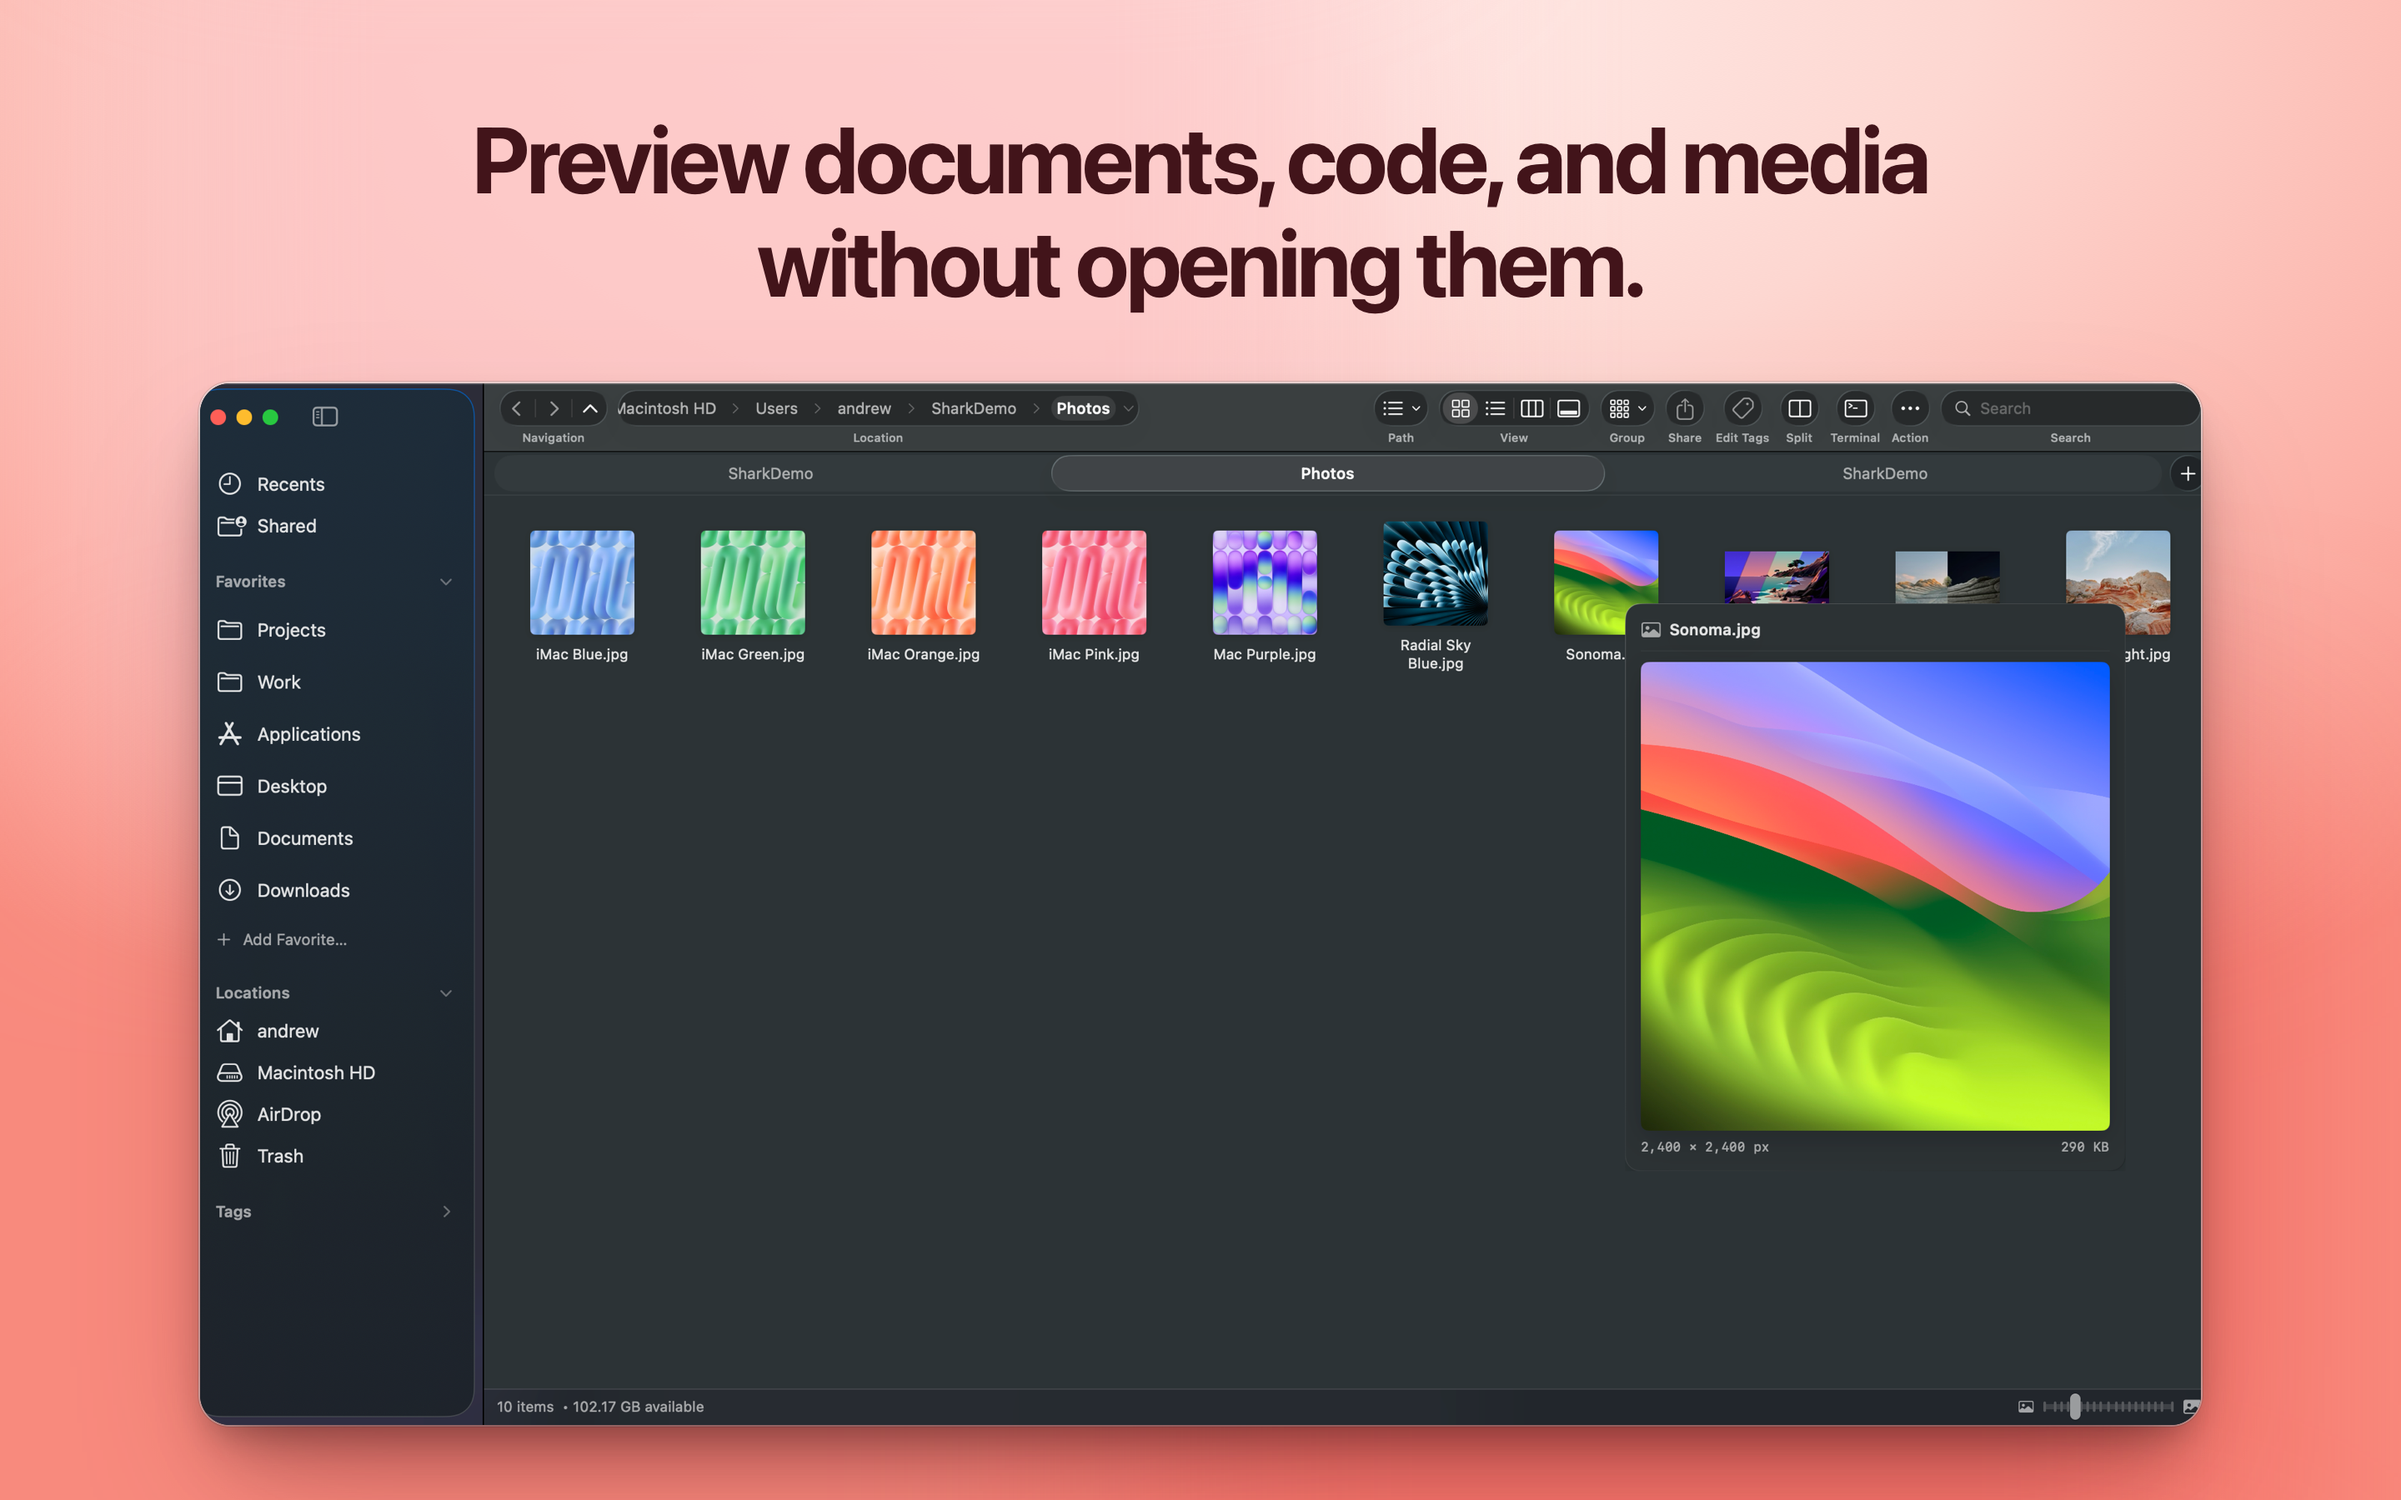
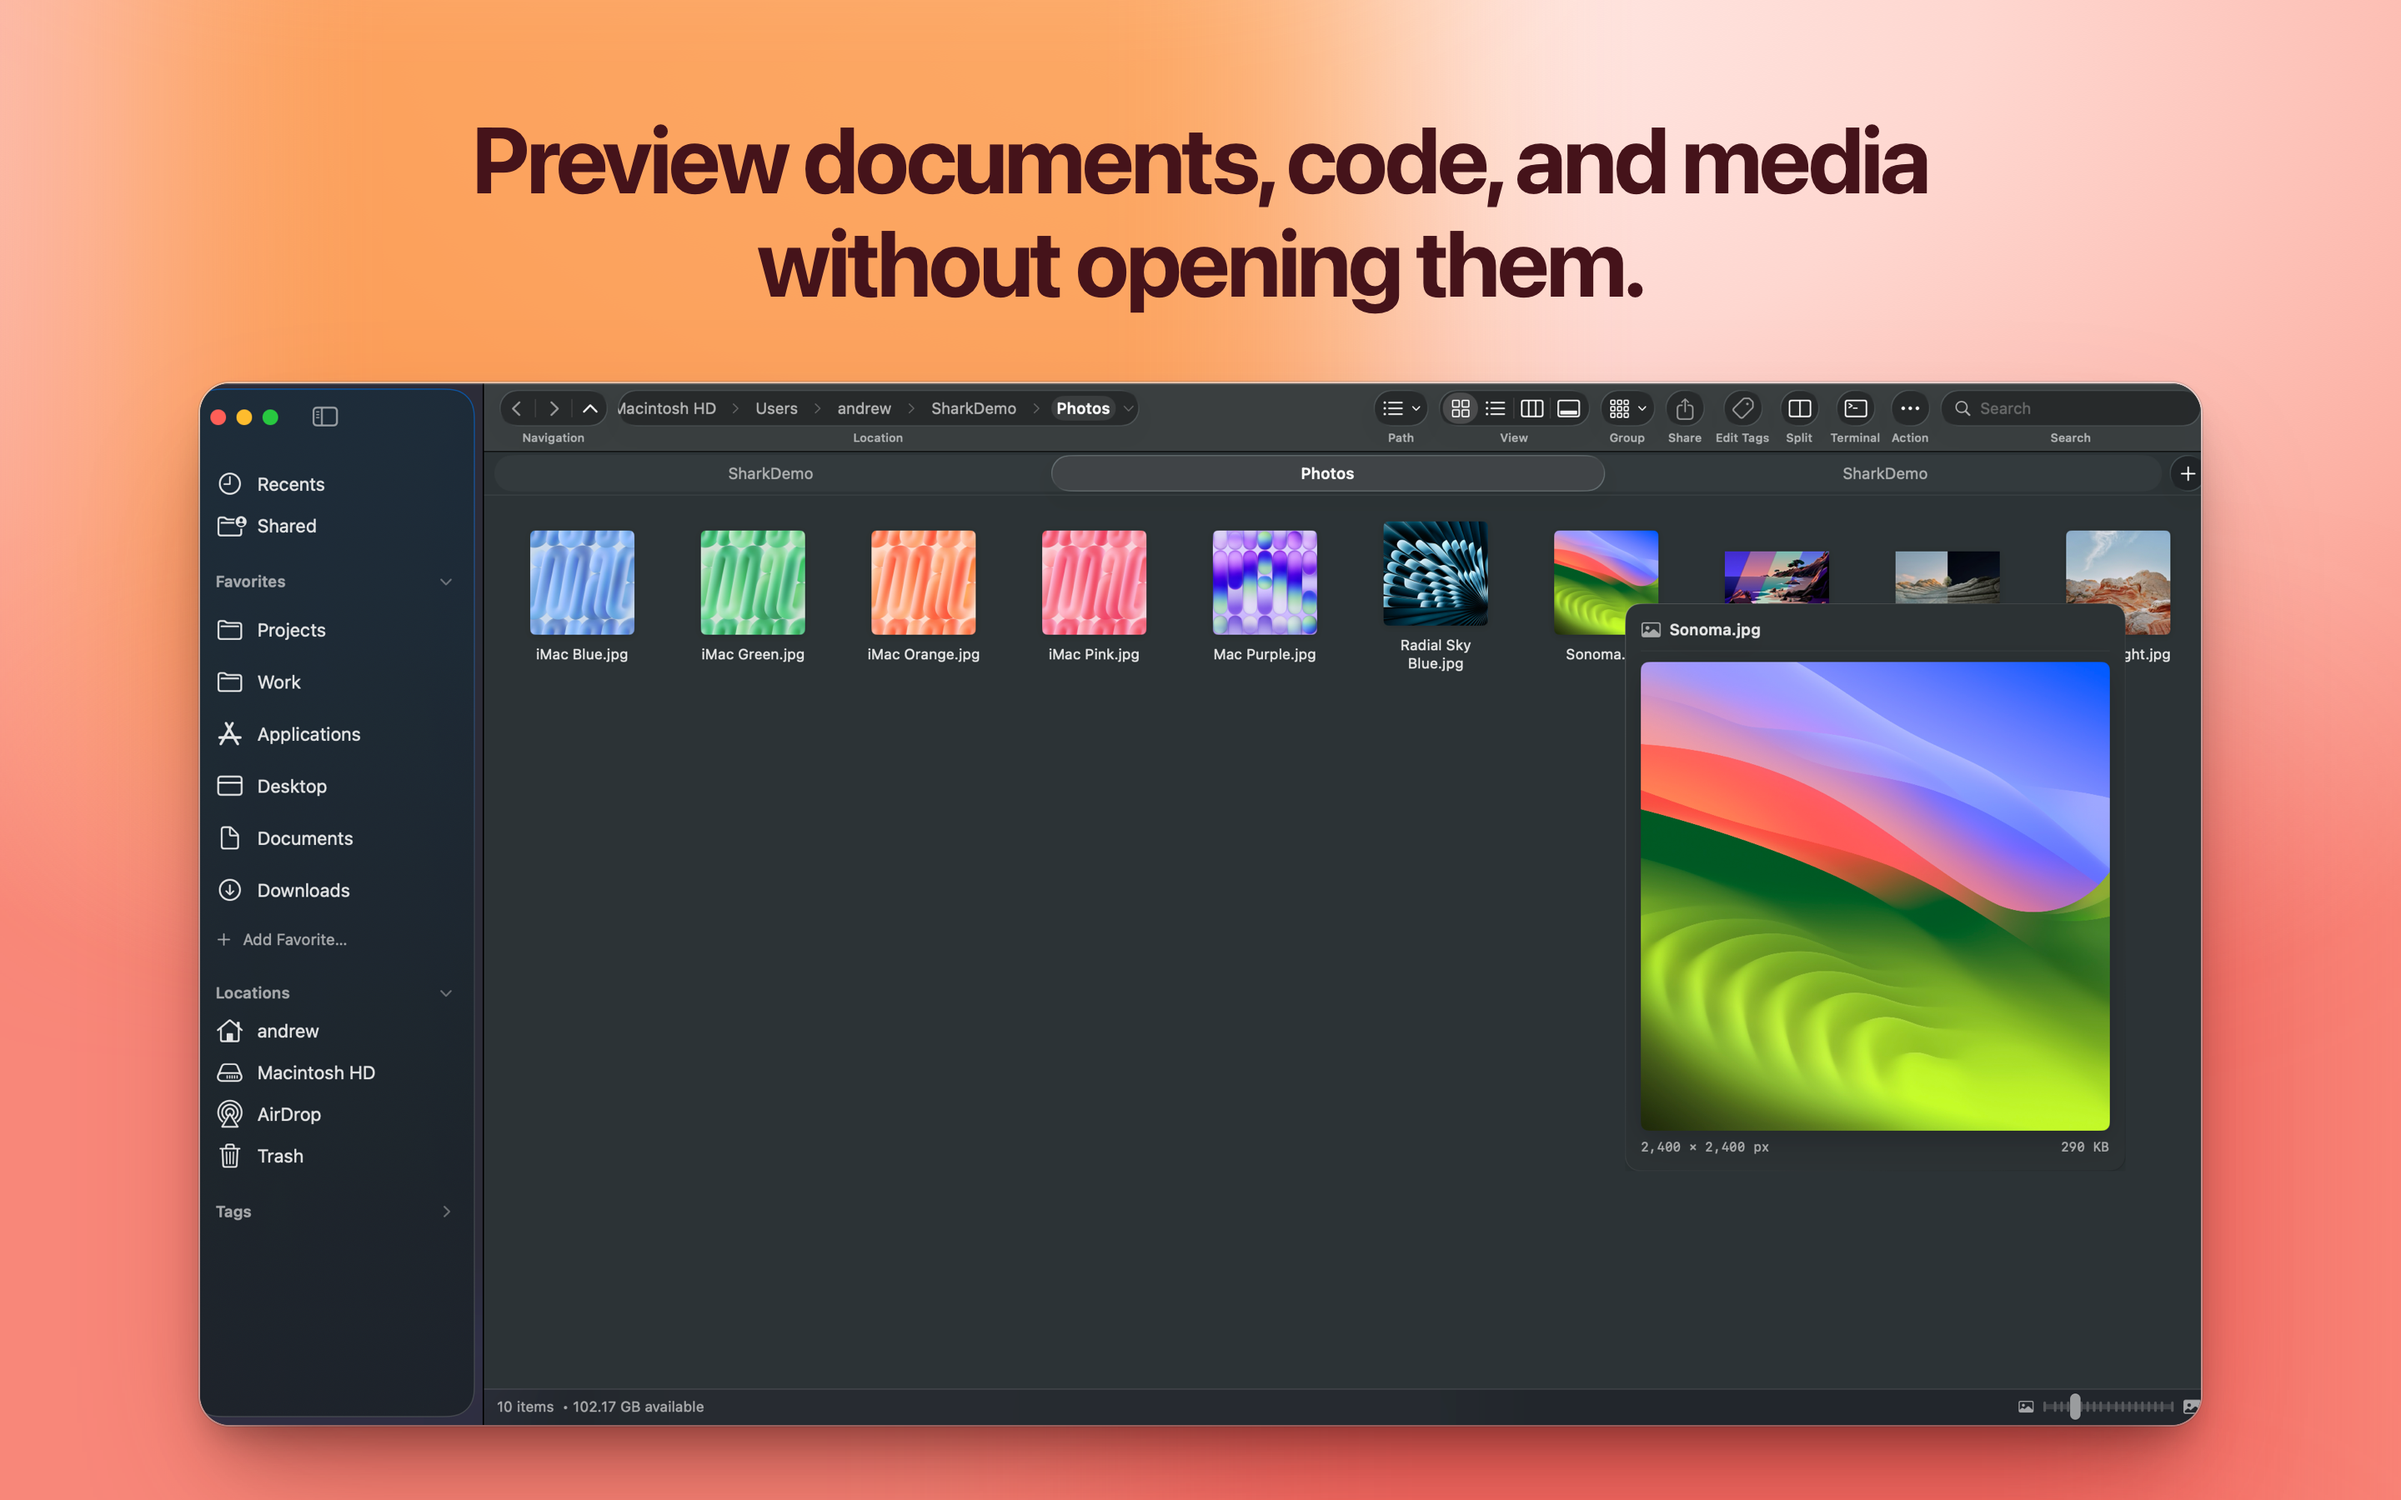
docs(screenshots): streamline to 4 image-tailored screenshots matching Sketch Product Hunt style

Changed region(s): [[0.0, 0.0, 0.625, 0.5911]]

diff --git a/scripts/generate-screenshots.swift b/scripts/generate-screenshots.swift
@@ -16,52 +16,42 @@ let configs: [ScreenshotConfig] = [
     ScreenshotConfig(
         filename: "01-tabs-and-split.png",
         headline: "Browse two folders side by side.<br>With infinite tabs.",
-        textColor: "#0A1938",
-        bgGradient: "radial-gradient(85% 75% at 50% 0%, #E6F1FE 0%, #C8E0FB 38%, #93BFF6 72%, #5D9DEE 100%)",
-        glowTL: "rgba(134, 172, 211, 0.8)",
-        glowBR: "rgba(1, 16, 133, 0.45)",
-        shadowAmbient: "rgba(10, 50, 120, 0.38)",
+        textColor: "#0C4A6E",
+        bgGradient: "radial-gradient(85% 75% at 50% 0%, #E0F2FE 0%, #BAE6FD 38%, #7DD3FC 72%, #38BDF8 100%)",
+        glowTL: "rgba(56, 189, 248, 0.8)",
+        glowBR: "rgba(2, 132, 199, 0.45)",
+        shadowAmbient: "rgba(3, 105, 161, 0.38)",
         sourceImage: "docs/screenshots/tabs-and-split.png"
     ),
     ScreenshotConfig(
         filename: "02-hover-preview.png",
         headline: "Preview documents, code, and media<br>without opening them.",
-        textColor: "#42141A",
-        bgGradient: "radial-gradient(85% 75% at 50% 0%, #FFF0ED 0%, #FDD7D1 38%, #FCAFA5 72%, #F88A7D 100%)",
-        glowTL: "rgba(253, 197, 198, 0.85)",
-        glowBR: "rgba(245, 90, 85, 0.45)",
-        shadowAmbient: "rgba(140, 30, 40, 0.35)",
+        textColor: "#45131A",
+        bgGradient: "radial-gradient(85% 75% at 50% 0%, #FFF1EE 0%, #FED7D0 38%, #FCAFA2 72%, #F88779 100%)",
+        glowTL: "rgba(251, 146, 60, 0.8)",
+        glowBR: "rgba(239, 68, 68, 0.45)",
+        shadowAmbient: "rgba(153, 27, 27, 0.35)",
         sourceImage: "docs/screenshots/hover-preview.png"
     ),
     ScreenshotConfig(
         filename: "03-subfolder-navigation.png",
         headline: "Fly through nested folders<br>at the speed of thought.",
-        textColor: "#082C24",
-        bgGradient: "radial-gradient(85% 75% at 50% 0%, #E8FAF6 0%, #C7F4EC 38%, #8EE5D8 72%, #4CCFBD 100%)",
-        glowTL: "rgba(175, 245, 235, 0.85)",
-        glowBR: "rgba(30, 180, 160, 0.45)",
-        shadowAmbient: "rgba(15, 90, 80, 0.35)",
+        textColor: "#1E1B4B",
+        bgGradient: "radial-gradient(85% 75% at 50% 0%, #EEF2FF 0%, #DBE4FE 38%, #B2C5FD 72%, #819EFA 100%)",
+        glowTL: "rgba(129, 140, 248, 0.8)",
+        glowBR: "rgba(59, 130, 246, 0.45)",
+        shadowAmbient: "rgba(30, 58, 138, 0.38)",
         sourceImage: "docs/screenshots/subfolder-menu.png"
     ),
     ScreenshotConfig(
         filename: "04-integrated-terminal.png",
         headline: "A built-in terminal synced right<br>to your active folder.",
-        textColor: "#1F1142",
-        bgGradient: "radial-gradient(85% 75% at 50% 0%, #F3EDFF 0%, #DFD3FE 38%, #BFA7FD 72%, #9570F8 100%)",
-        glowTL: "rgba(220, 205, 255, 0.85)",
-        glowBR: "rgba(125, 75, 230, 0.45)",
-        shadowAmbient: "rgba(70, 30, 130, 0.38)",
+        textColor: "#064E3B",
+        bgGradient: "radial-gradient(85% 75% at 50% 0%, #ECFDF5 0%, #D1FAE5 38%, #A7F3D0 72%, #6EE7B7 100%)",
+        glowTL: "rgba(52, 211, 153, 0.8)",
+        glowBR: "rgba(16, 185, 129, 0.45)",
+        shadowAmbient: "rgba(6, 78, 59, 0.35)",
         sourceImage: "docs/screenshots/terminal.png"
-    ),
-    ScreenshotConfig(
-        filename: "05-native-mac-craft.png",
-        headline: "Fast, lightweight, and completely<br>private on your Mac.",
-        textColor: "#0E1B32",
-        bgGradient: "radial-gradient(85% 75% at 50% 0%, #F0F4FA 0%, #DCE5F3 38%, #BDCEE5 72%, #8FAACC 100%)",
-        glowTL: "rgba(210, 225, 245, 0.85)",
-        glowBR: "rgba(50, 90, 160, 0.45)",
-        shadowAmbient: "rgba(25, 55, 105, 0.35)",
-        sourceImage: "docs/screenshots/tabs-and-split.png"
     )
 ]
 
@@ -185,7 +175,7 @@ class RenderDelegate: NSObject, WKNavigationDelegate {
                 if currentIndex < configs.count {
                     renderNext()
                 } else {
-                    print("ALL SCREENSHOTS SUCCESSFULLY GENERATED!")
+                    print("ALL 4 SCREENSHOTS SUCCESSFULLY GENERATED!")
                     exit(0)
                 }
             }
